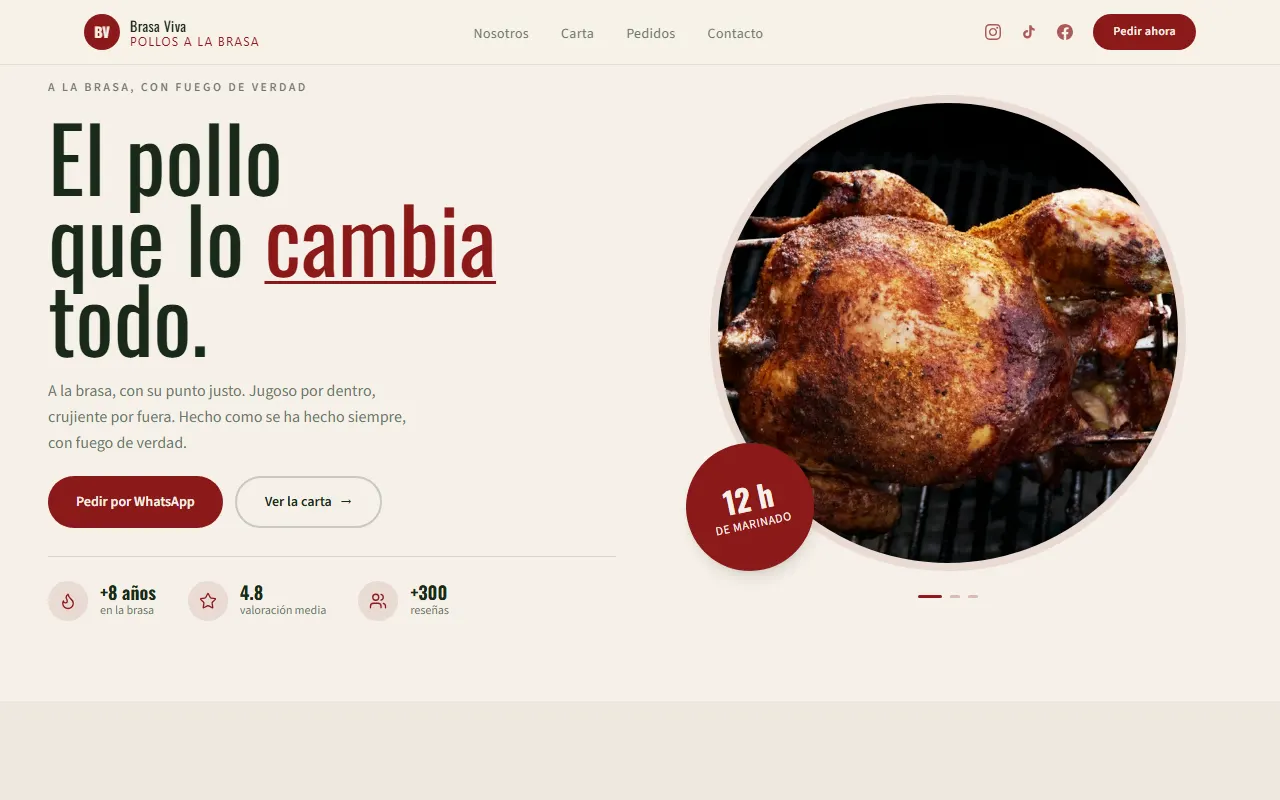
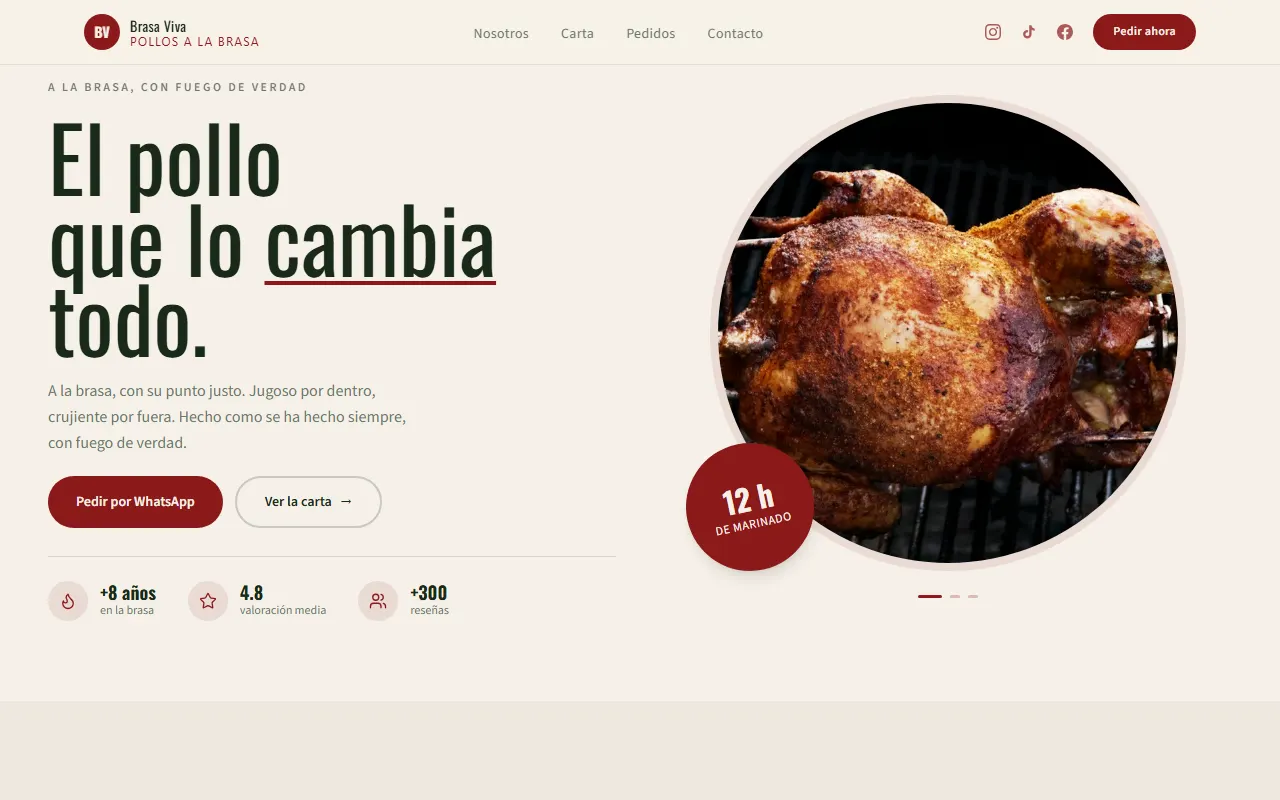
Heros de las demos sin el patrón de dos colores en el titular, nuevo hero móvil de Aura con panel diagonal, nuevas fotos y capturas actualizadas

Changed region(s): [[0.1875, 0.25, 0.4062, 0.375]]

diff --git a/platform/src/sections/hero/HeroEditorial.jsx b/platform/src/sections/hero/HeroEditorial.jsx
@@ -6,50 +6,36 @@ export default function HeroEditorial({ config }) {
   const [idx, setIdx] = useSlideshow(images.length, 4500)
 
   return (
-    <section id="hero" className="relative bg-demo-bg overflow-hidden">
+    <section id="hero" className="relative flex min-h-[100svh] flex-col justify-end overflow-hidden bg-demo-bg md:block md:min-h-0">
 
-      {/* Móvil: imagen a todo el ancho con corte diagonal arriba, texto debajo */}
-      <div className="md:hidden relative pt-16">
-        <div
-          className="relative h-[54svh] min-h-[340px] max-h-[520px]"
-          style={{ clipPath: 'polygon(0 18%, 100% 0, 100% 100%, 0 100%)' }}
-        >
+      {/* Móvil: la foto es el fondo, con el corte diagonal arriba, y se funde con el color de la página; el texto va encima */}
+      <div className="md:hidden absolute inset-0">
+        <div className="absolute inset-0" style={{ clipPath: 'polygon(0 6%, 100% 0, 100% 100%, 0 100%)' }}>
           {images.map((img, i) => (
             <div key={i} className={`absolute inset-0 transition-opacity duration-1000 ${i === idx ? 'opacity-100' : 'opacity-0'}`}>
               {img.src
-                ? <img src={img.src} alt={img.label ?? ''} className="w-full h-full object-cover" />
+                ? <img src={img.src} alt={img.label ?? ''} className="w-full h-full object-cover object-top" />
                 : <div className="w-full h-full" style={{ background: img.bg ?? 'var(--demo-surface)' }} />
               }
             </div>
           ))}
         </div>
-        {images.length > 1 && (
-          <div className="absolute bottom-5 right-8 flex items-center gap-2">
-            {images.map((_, i) => (
-              <button
-                key={i}
-                onClick={() => setIdx(i)} aria-label={`Ir a la imagen ${i + 1}`}
-                className={`h-[3px] rounded-full transition-all duration-500 ${i === idx ? 'w-8 bg-demo-primary' : 'w-3 bg-demo-primary/30'}`}
-              />
-            ))}
-          </div>
-        )}
       </div>
 
       <div className="relative flex items-center md:min-h-[680px]">
-
-        {/* Texto */}
-        <div className="relative z-10 w-full md:w-[50%] xl:mx-25 px-8 md:px-14 lg:px-24 pt-8 md:pt-28 pb-12 md:pb-20 flex flex-col justify-center items-center text-center md:items-start md:text-left">
-          <h1 className="w-full text-left font-demo-heading text-demo-text leading-[1.05] text-[3.4rem] md:text-[clamp(2.6rem,5vw,4.5rem)] mb-5">
+        {/* Texto. En móvil todo va sobre un panel crema con el borde de arriba en diagonal; la foto queda limpia por encima */}
+        <div className="relative z-10 w-full md:w-[50%] xl:mx-25 px-8 md:px-14 lg:px-24 pt-0 md:pt-28 pb-0 md:pb-20 flex flex-col justify-center items-center text-center md:items-start md:text-left">
+          <div className="-mx-8 self-stretch bg-demo-bg px-8 pb-8 pt-16 [clip-path:polygon(0_0,100%_56px,100%_100%,0_100%)] md:contents">
+          <h1 className="w-full text-left font-demo-heading text-demo-text leading-[1.05] text-[2.6rem] md:text-[clamp(2.6rem,5vw,4.5rem)] mb-4 md:mb-5">
             {config.title}
             {config.titleHighlight && (
-              <><br /><em className="not-italic text-demo-primary">{config.titleHighlight}</em></>
+              <><br /><em className="not-italic">{config.titleHighlight}</em></>
             )}
             {config.titleGlow && (
-              <><br /><em className="not-italic text-demo-primary">{config.titleGlow}</em></>
+              <><br /><em className="not-italic">{config.titleGlow}</em></>
             )}
           </h1>
-          <p className="font-demo-body text-demo-muted text-lg md:text-base leading-relaxed max-w-sm md:max-w-xs mb-8">
+          <p className="font-demo-body text-demo-muted text-base text-left leading-relaxed max-w-sm md:max-w-xs mb-5 md:mb-8">
             {config.description}
           </p>
 
@@ -62,6 +48,7 @@ export default function HeroEditorial({ config }) {
                 {config.ctaSecondary.label}
               </a>
             )}
+          </div>
           </div>
 
           {images.length > 1 && (

diff --git a/platform/src/demos/laura-vidal.js b/platform/src/demos/laura-vidal.js
@@ -44,15 +44,15 @@ export default {
 
   hero: {
     layout: 'editorial',
-    title: 'Tu piel,',
-    titleHighlight: 'tu mejor versión.',
-    description: 'Tratamientos faciales y corporales personalizados con tecnología avanzada y resultados naturales.',
+    title: 'Aura',
+    titleHighlight: 'Estética',
+    description: 'Tratamientos faciales y corporales personalizados.',
     cta: { label: 'Reservar cita', href: '#contact' },
     ctaSecondary: { label: 'Ver tratamientos', href: '#services' },
     images: [
       { src: 'https://images.unsplash.com/photo-1552693673-1bf958298935?w=1400&h=1800&fit=crop&q=85', label: 'Tratamiento facial' },
-      { src: 'https://images.unsplash.com/photo-1516815989420-9cb5ef0fce78?w=1400&h=1800&fit=crop&q=85', label: 'Sala de tratamientos' },
-      { src: 'https://images.unsplash.com/photo-1695527081827-fdbc4e77be9b?w=1400&h=1800&fit=crop&q=85', label: 'Zona bienestar' },
+      { src: 'https://images.pexels.com/photos/10999291/pexels-photo-10999291.jpeg?auto=compress&cs=tinysrgb&w=1400&h=1800&fit=crop', label: 'Cuidado facial' },
+      { src: 'https://images.pexels.com/photos/16120490/pexels-photo-16120490.jpeg?auto=compress&cs=tinysrgb&w=1400&h=1800&fit=crop', label: 'Tratamiento en cabina' },
     ],
   },
 

diff --git a/platform/src/sections/hero/HeroShowcase.jsx b/platform/src/sections/hero/HeroShowcase.jsx
@@ -1,6 +1,12 @@
 import Icon from '../../components/Icon'
 import useSlideshow from './useSlideshow'
 
+/* Cómo se destaca la palabra del titular, sin cambiar su color: config.emphasis */
+const EMPHASIS = {
+  underline: 'underline decoration-demo-primary decoration-[4px] underline-offset-4',
+  italic: 'italic',
+}
+
 /* ── Showcase (fondo claro, texto izquierda, imagen redondeada derecha, stats) ── */
 export default function HeroShowcase({ config }) {
   const images = config.images ?? []
@@ -20,7 +26,7 @@ export default function HeroShowcase({ config }) {
             {config.titleAccent && <>{config.titleAccent}<br /></>}
             {config.title}
             {config.titleHighlight && (
-              <span className="text-demo-primary underline decoration-demo-primary decoration-[3px] underline-offset-4">
+              <span className={EMPHASIS[config.emphasis ?? 'underline']}>
                 {config.titleHighlight}
               </span>
             )}

diff --git a/platform/src/sections/hero/HeroBanner.jsx b/platform/src/sections/hero/HeroBanner.jsx
@@ -37,10 +37,8 @@ export default function HeroBanner({ config }) {
       <div className="bg-demo-primary">
         <div className="max-w-7xl mx-auto px-6 md:px-10 py-10 md:py-14 grid gap-8 md:grid-cols-[1.4fr_1fr] md:items-end">
           <h1 className="font-demo-heading uppercase leading-[0.9] text-white text-[clamp(3.2rem,8vw,8rem)]">
-            {config.title}
-            {config.titleHighlight && (
-              <><br /><span className="text-demo-bg">{config.titleHighlight}</span></>
-            )}
+            <span className={config.titleHighlight ? 'block text-[0.42em] tracking-[0.3em]' : ''}>{config.title}</span>
+            {config.titleHighlight && <span className="block">{config.titleHighlight}</span>}
           </h1>
 
           <div className="flex flex-col gap-6">

diff --git a/platform/src/sections/hero/HeroSplit.jsx b/platform/src/sections/hero/HeroSplit.jsx
@@ -60,7 +60,13 @@ function SplitText({ config }) {
       <h1 className="font-demo-heading text-demo-text leading-none text-[clamp(3rem,10vw,6rem)]">
         {config.title}
         {config.titleGlow && (
-          <><br /><em className="not-italic text-demo-primary">{config.titleGlow}</em></>
+          <>
+            <br />
+            {/* glowStyle: 'outline' (solo el contorno) o 'soft' (el mismo color, más suave) */}
+            {config.glowStyle === 'outline'
+              ? <em className="not-italic" style={{ WebkitTextStroke: '2px var(--demo-text)', color: 'transparent' }}>{config.titleGlow}</em>
+              : <em className="not-italic opacity-60">{config.titleGlow}</em>}
+          </>
         )}
       </h1>
       {config.subtitle && (

diff --git a/platform/src/sections/hero/HeroTiras.jsx b/platform/src/sections/hero/HeroTiras.jsx
@@ -36,7 +36,7 @@ export default function HeroTiras({ config }) {
         <h1 className="w-full text-left font-demo-heading leading-[1.04] text-demo-text text-[3.2rem] lg:text-[clamp(2.6rem,4.6vw,4.6rem)]">
           {config.title}
           {config.titleHighlight && (
-            <><br /><em className="italic font-normal text-demo-primary">{config.titleHighlight}</em></>
+            <><br /><span className="underline decoration-wavy decoration-demo-primary decoration-2 underline-offset-[0.2em]">{config.titleHighlight}</span></>
           )}
         </h1>
         <p className="mt-5 max-w-sm font-demo-body text-lg leading-relaxed text-demo-muted lg:max-w-md lg:text-base">{config.description}</p>

diff --git a/platform/src/sections/hero/HeroApetece.jsx b/platform/src/sections/hero/HeroApetece.jsx
@@ -120,7 +120,7 @@ export default function HeroApetece({ config }) {
               <em
                 key={i}
                 aria-hidden={i !== target}
-                className={`col-start-1 row-start-1 font-normal italic text-demo-primary transition-opacity duration-500 ${i === target ? 'opacity-100 delay-300' : 'opacity-0'}`}
+                className={`col-start-1 row-start-1 font-normal not-italic transition-opacity duration-500 ${i === target ? 'opacity-100 delay-300' : 'opacity-0'}`}
               >
                 {m.highlight}
               </em>

diff --git a/platform/src/sections/hero/HeroVitrina.jsx b/platform/src/sections/hero/HeroVitrina.jsx
@@ -56,7 +56,7 @@ export default function HeroVitrina({ config }) {
           <h1 className="font-demo-heading text-demo-text leading-[0.95] tracking-tight text-[clamp(3rem,9vw,8rem)]">
             {config.title}
             {config.titleHighlight && (
-              <><br /><em className="italic font-normal text-demo-primary">{config.titleHighlight}</em></>
+              <><br /><em className="italic font-normal">{config.titleHighlight}</em></>
             )}
           </h1>
           {config.description && (

diff --git a/platform/src/demos/dulce-lima.js b/platform/src/demos/dulce-lima.js
@@ -48,6 +48,7 @@ export default {
     badge: 'Repostería Peruana en Madrid',
     title: 'Dulces que',
     titleGlow: 'saben a Lima.',
+    glowStyle: 'soft',
     description: 'Tortas, alfajores y postres peruanos hechos a mano cada día. Con recetas de la abuela, ingredientes frescos y el cariño de quien lo hace con amor.',
     cta: { label: 'Ver productos', href: '#services' },
     ctaSecondary: { label: 'Hacer un pedido', href: '#contact' },

diff --git a/platform/src/demos/inti-street.js b/platform/src/demos/inti-street.js
@@ -47,6 +47,7 @@ export default {
     badge: 'Street Food Peruano en Madrid',
     title: 'Brasa,',
     titleGlow: 'ceviche y chaufa.',
+    glowStyle: 'outline',
     description: 'Cocina peruana de verdad, en el corazón de Madrid. Pollo marinado 12 horas, ceviche del día y arroz de wok. Sin fusión, sin atajos.',
     cta: { label: 'Ver la carta', href: '#menu' },
     ctaSecondary: { label: 'Ubicación', href: '#contact' },

diff --git a/platform/src/demos/el-sabor-de-casa.js b/platform/src/demos/el-sabor-de-casa.js
@@ -46,6 +46,7 @@ export default {
     title: 'que fa ',
     titleHighlight: 'olor',
     titleSuffix: ' a casa.',
+    emphasis: 'italic',
     description: 'Pollastre a l\'ast amanit amb romaní, cruixent per fora i sucós per dins. Cuina casolana de tota la vida, al barri d\'Horta-Guinardó.',
     cta: { label: 'Fes la comanda', href: '#order' },
     ctaSecondary: { label: 'Veure la carta', href: '#menu' },
